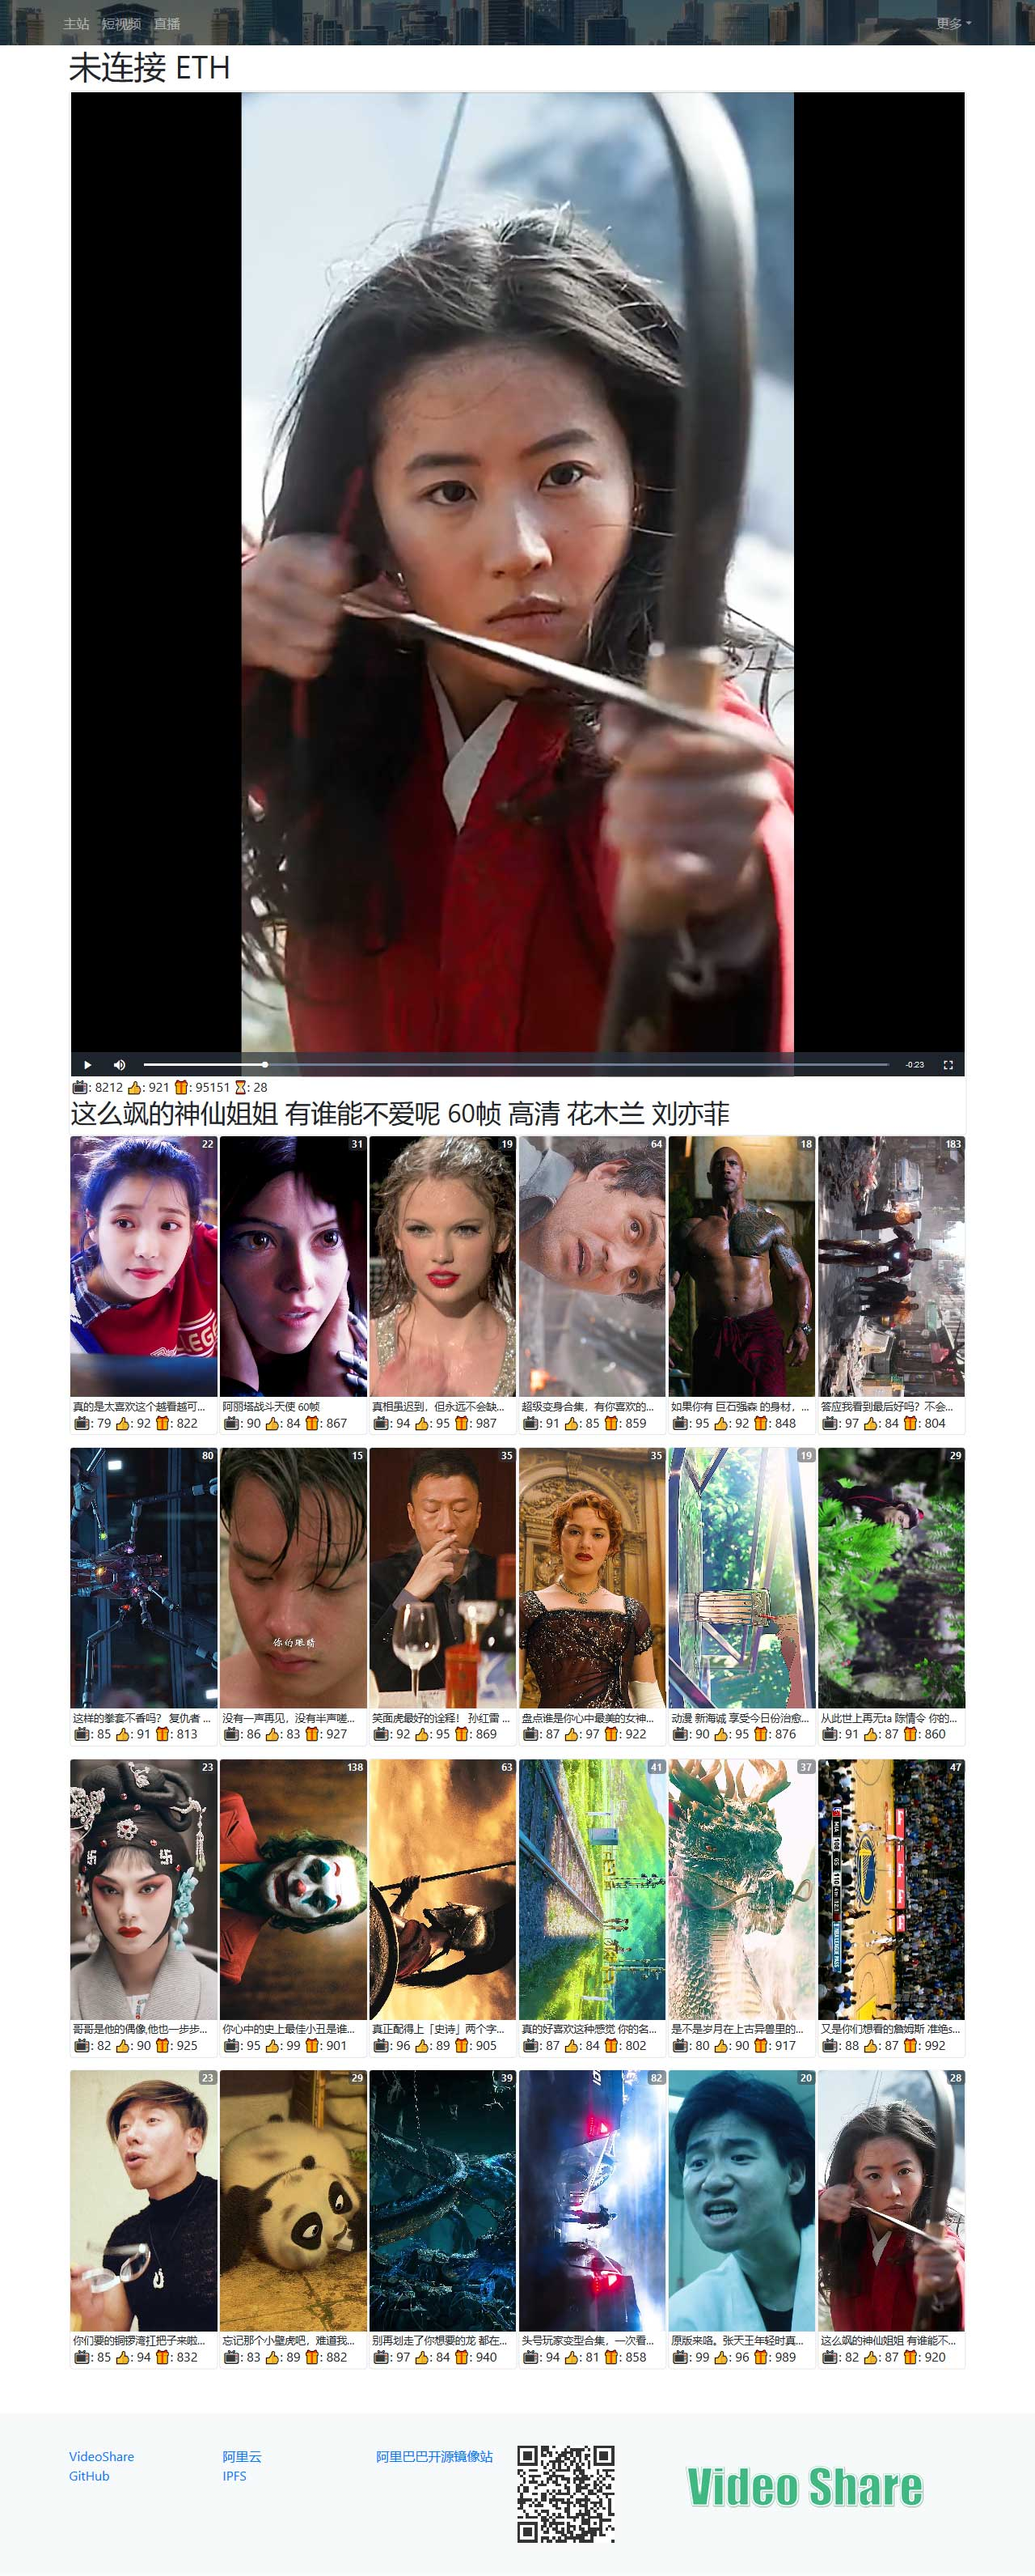
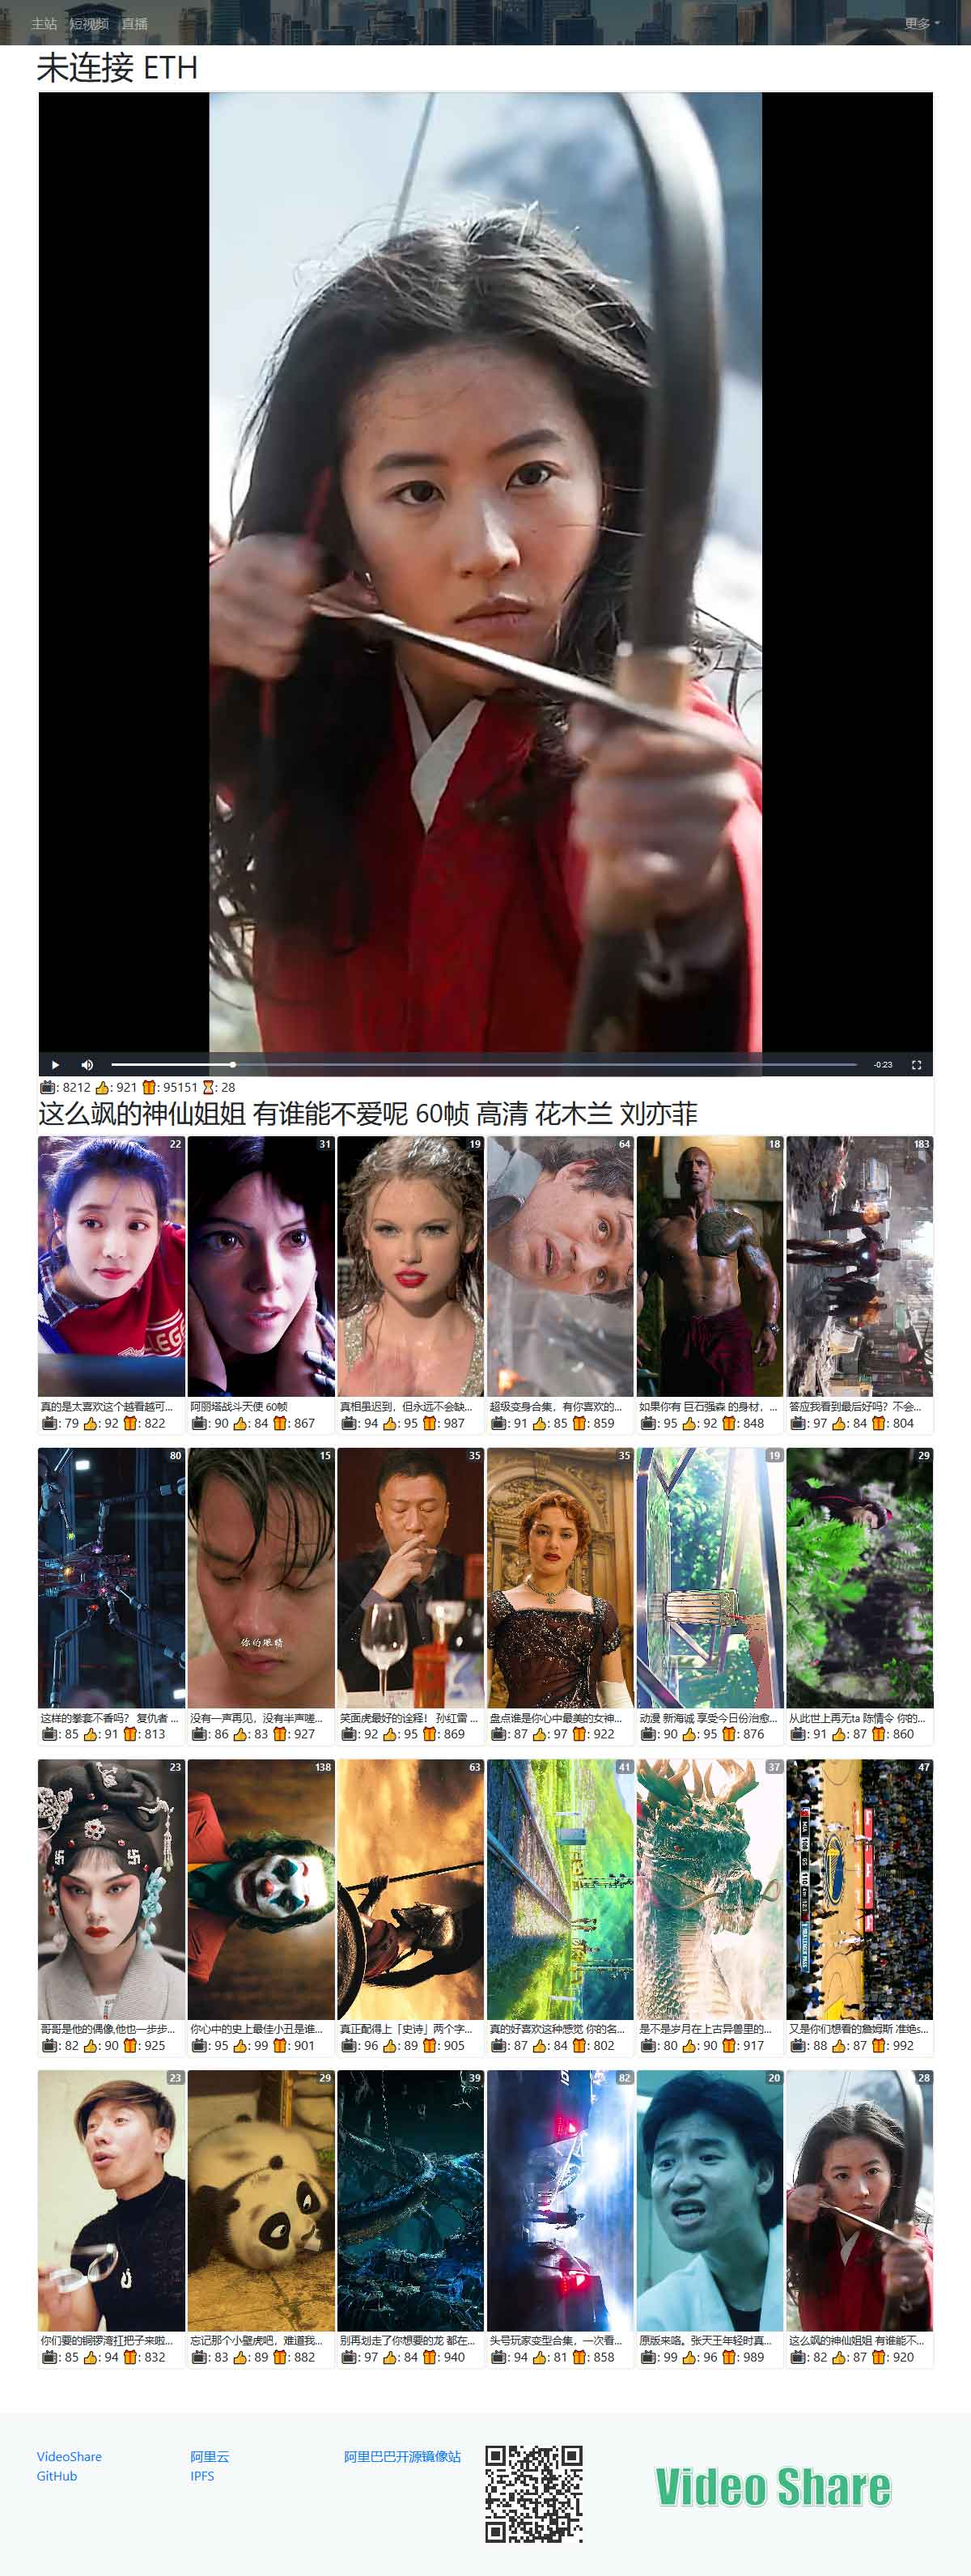
优化

diff --git a/src/App.vue b/src/App.vue
@@ -12,6 +12,9 @@
           <b-navbar-nav class="ml-auto">
             <b-nav-item-dropdown right>
               <template slot="button-content">更多</template>
+              <b-dropdown-item v-if="loginEth" to="/userinfo">个人信息</b-dropdown-item>
+              <b-dropdown-item v-if="loginEth" :to="'/user/'+$store.state.userAccount">我的空间</b-dropdown-item>
+              <b-dropdown-item v-if="loginEth" to="/upload">上传视频</b-dropdown-item>
               <b-dropdown-item :href="global.news">公告</b-dropdown-item>
               <b-dropdown-divider></b-dropdown-divider>
               <b-dropdown-item :href="link.link" v-for="link in global.extend" :key="link.link">{{ link.title }}</b-dropdown-item>
@@ -22,7 +25,9 @@
       </b-navbar>
     </div>
     <b-container>
-      <h1 v-if="!connectEth">未连接 ETH</h1>
+      <h1 v-if="!connectEth">未连接 ETH, 请下载浏览器插件🦊MetaMask，
+        并切换到<b-badge variant="danger">Ropsten测试网络</b-badge>，
+        访问<b-badge target="_blank" href="https://faucet.metamask.io" variant="light">水龙头</b-badge>以获取测试用的以太币。</h1>
       <router-view></router-view>
     </b-container>
     <div class="footer">
@@ -81,7 +86,6 @@
                 colorLight: "#ffffff",
                 correctLevel: QRCode.CorrectLevel.L
             });
-            console.log(res.data.id)
         }).catch((err)=>{
           console.log(err)
         });
@@ -131,51 +135,51 @@
         }
 
         //先get一下我下载下来的公共网关列表
-        let gateways = await Axios.get('./gateways.json').then((res)=>{
-          return res.data;
-        });
-        let olgateways = await Axios.get('https://ipfs.github.io/public-gateway-checker/gateways.json').then((res)=>{
-          return res.data;
-        });
-        const host1 = window.location.host;
-        const host2 = document.domain;
-        gateways = [
-          "http://127.0.0.1:8080/ipfs/:hash",
-          "http://" + host1 + "/ipfs/:hash",
-          "http://" + host2 + ":8080/ipfs/:hash"
-        ].concat(gateways);
-        gateways = gateways.concat(olgateways);
-        gateways = uniqueArr(gateways);
-
-        //定义用于测试的hash和文本
-        const hashToTest = 'Qmaisz6NMhDB51cCvNWa1GMS7LU1pAxdF4Ld6Ft9kZEP2a';
-        const hashString = 'Hello from IPFS Gateway Checker';
-        let gatewayOnline = [];
-        let num = gateways.length;
-        gateways.forEach((value) => {
-          //拼接hash到网关url里
-          const gatewayAndHash = value.replace(':hash', hashToTest);
-          try {
-            Axios.get(gatewayAndHash, {timeout: 5000}).then((res) => {
-              if (res.data.trim() === hashString.trim()) {
-                gatewayOnline.push(value);
-              }
-              num --;
-              if(num === 0)saveGateway(gatewayOnline);
-            }).catch((err) => {
-              num --;
-              if(num === 0)saveGateway(gatewayOnline);
-            });
-          }catch (e) {
-            num --;
-            if(num === 0)saveGateway(gatewayOnline);
-          }
-        });
-        const saveGateway = (gateways)=>{
-            if(gateways.length < 1)return;
-            this.$store.commit('setGateWay', gateways[0]);
-            localStorage.setItem('GateWays', JSON.stringify(gateways));
-        };
+        // let gateways = await Axios.get('./gateways.json').then((res)=>{
+        //   return res.data;
+        // });
+        // let olgateways = await Axios.get('https://ipfs.github.io/public-gateway-checker/gateways.json').then((res)=>{
+        //   return res.data;
+        // });
+        // const host1 = window.location.host;
+        // const host2 = document.domain;
+        // gateways = [
+        //   "http://127.0.0.1:8080/ipfs/:hash",
+        //   "http://" + host1 + "/ipfs/:hash",
+        //   "http://" + host2 + ":8080/ipfs/:hash"
+        // ].concat(gateways);
+        // gateways = gateways.concat(olgateways);
+        // gateways = uniqueArr(gateways);
+        //
+        // // 定义用于测试的hash和文本
+        // const hashToTest = 'Qmaisz6NMhDB51cCvNWa1GMS7LU1pAxdF4Ld6Ft9kZEP2a';
+        // const hashString = 'Hello from IPFS Gateway Checker';
+        // let gatewayOnline = [];
+        // let num = gateways.length;
+        // gateways.forEach((value) => {
+        //   //拼接hash到网关url里
+        //   const gatewayAndHash = value.replace(':hash', hashToTest);
+        //   try {
+        //     Axios.get(gatewayAndHash, {timeout: 5000}).then((res) => {
+        //       if (res.data.trim() === hashString.trim()) {
+        //         gatewayOnline.push(value);
+        //       }
+        //       num --;
+        //       if(num === 0)saveGateway(gatewayOnline);
+        //     }).catch((err) => {
+        //       num --;
+        //       if(num === 0)saveGateway(gatewayOnline);
+        //     });
+        //   }catch (e) {
+        //     num --;
+        //     if(num === 0)saveGateway(gatewayOnline);
+        //   }
+        // });
+        // const saveGateway = (gateways)=>{
+        //     if(gateways.length < 1)return;
+        //     this.$store.commit('setGateWay', gateways[0]);
+        //     localStorage.setItem('GateWays', JSON.stringify(gateways));
+        // };
         console.log('login:'+this.loginEth);
         if(this.loginEth){
           const ipfs = await this.$ipfs;

diff --git a/src/components/VideoCard.vue b/src/components/VideoCard.vue
@@ -8,9 +8,10 @@
 <!--    <b-badge variant="primary" class="hd">{{ hd }}</b-badge>-->
     <a :href="'#/video/'+video.videoId">
       <b-card-body>
-        <b-card-title>{{ title }}</b-card-title>
+        <b-card-title><h4>{{ title }}</h4></b-card-title>
         <b-card-text>
-          {{ timestamp }} 👍: {{ gratuityNum }} 🎁: {{ gratuitySum }}
+          {{ timestamp }} <br>
+          👍: {{ gratuityNum }} 🎁: {{ gratuitySum }}
         </b-card-text>
       </b-card-body>
     </a>
@@ -36,13 +37,16 @@
     props:['video'],
     methods:{
       async init(){
+        if(this.video.videoHash.substr(0,6)==='/ipfs/'){
+          this.video.videoHash = this.video.videoHash.substr(6);
+        }
         let videoinfo = await Axios.get('/ipfs/'+this.video.videoHash).then((res)=>{
           return res.data
         });
         this.cover = videoinfo.cover;
         this.title = videoinfo.title;
         this.duration = formatdurationtime(this.video.duration);
-        this.timestamp = formatDate(this.video.timestamp,'short');
+        this.timestamp = formatDate(this.video.timestamp);
         this.gratuityNum = this.video.gratuityNum;
         this.gratuitySum = formatETH(this.video.gratuitySum);
       }
@@ -55,7 +59,7 @@
 
 <style scoped>
   .card-body{
-    padding: 0.2rem;
+    padding: 0.1rem;
   }
   .duration{
     position: absolute;
@@ -70,8 +74,15 @@
     text-decoration: none;
   }
   .video-card{
-    margin-left: -10px;
-    margin-right: -10px;
+    margin-left: -13px;
+    margin-right: -13px;
     margin-bottom: 10px;
+  }
+  h4{
+    font-size: 0.8rem;
+    overflow: hidden;
+    text-overflow:ellipsis;
+    white-space: nowrap;
+    margin-bottom: 0;
   }
 </style>

diff --git a/src/views/Demo.vue b/src/views/Demo.vue
@@ -60,8 +60,14 @@
         methods: {
             async init() {
                 let video = await Axios.get('./demo.json');
-                console.log(video);
-                this.demoVideos = video.data.demoVideos;
+                let demoVideos = video.data.demoVideos;
+                for(let i=0;i<12;i++){
+                    let len = demoVideos.length-1;
+                    let number = Math.floor(Math.random()*len);
+                    this.demoVideos.push(demoVideos[number]);
+                    demoVideos.splice(number,1);
+                }
+                this.playvideo(this.demoVideos[0]);
             },
             playvideo(v){
                 this.video = v;
@@ -69,13 +75,18 @@
                     type:"video/mp4",
                     src:v.url
                 }];
+                const playvideo = this.playvideo;
+                const demoVideos = this.demoVideos;
                 const player = videojs('demoplayer');
                 player.ready(function(){
                     const obj  = this;
                     obj.src(sources);
                     obj.load();
+                    obj.on('ended', ()=>{
+                        let number = Math.floor(Math.random()*12);
+                        playvideo(demoVideos[number]);
+                    });
                 });
-                console.log(v);
             }
         },
         filters: {
@@ -112,7 +123,6 @@
     text-overflow:ellipsis;
     white-space: nowrap;
     margin-bottom: 0;
-
   }
   .duration{
     position: absolute;

diff --git a/src/views/Video.vue b/src/views/Video.vue
@@ -14,7 +14,7 @@
       <b-pagination-nav :link-gen="getNum" @change="gotoplayer" :number-of-pages="MaxPage" use-router></b-pagination-nav>
     </b-row>
     <b-row>
-      <b-col cols="3" v-for="v in videolist" :key="v.videoHash">
+      <b-col sm="6" md="4" lg="3" xl="2" v-for="v in videolist" :key="v.videoHash">
         <VideoCard :video="v"></VideoCard>
       </b-col>
     </b-row>
@@ -76,6 +76,7 @@
           this.userData = await dikTok.methods.getUserInfo(this.videoData.author).call().then((res)=>{return res});
           this.userData['userAddress'] = this.videoData.author;
 
+          this.CommentData = [];
           for (let i = 0; i < this.videoData.commentsNum && i < 6; i++) {
               const comment = await dikTok.methods.getVideoComment(this.videoId, i).call().then((res)=>{return res});
               this.CommentData.push(comment);

diff --git a/src/components/VideoPlayer.vue b/src/components/VideoPlayer.vue
@@ -59,6 +59,9 @@
     props:['video'],
     methods:{
       async init(){
+        if(this.video.videoHash.substr(0,6)==='/ipfs/'){
+            this.video.videoHash = this.video.videoHash.substr(6);
+        }
         let videoinfo = await Axios.get('/ipfs/'+this.video.videoHash).then((res)=>{
           return res.data
         });

diff --git a/src/components/UserCard.vue b/src/components/UserCard.vue
@@ -37,6 +37,9 @@
     props:['user'],
     methods:{
       async init(){
+        if(this.user.userHash.length<1){
+            return ;
+        }
         let userinfo = await Axios.get('/ipfs/'+this.user.userHash).then((res)=>{
           return res.data
         });

diff --git a/src/utils/assist.js b/src/utils/assist.js
@@ -51,7 +51,7 @@ export function formatdurationtime(inputTime, format = 'standard') {
 }
 
 export function formatETH(eth) {
-  return Math.floor(eth / 1e+8).toFixed(2);
+  return (eth / 1e+18).toFixed(2);
 }
 export function uniqueArr(array) {
   let n = [];

diff --git a/src/views/User.vue b/src/views/User.vue
@@ -6,7 +6,7 @@
       </b-col>
     </b-row>
     <b-row>
-      <b-col cols="3" v-for="video in videoData">
+      <b-col cols="3" v-for="video in videoData" :key="video.url">
         <VideoCard :video="video"></VideoCard>
       </b-col>
     </b-row>

diff --git a/README.md b/README.md
@@ -8,7 +8,7 @@ DikTok is a Dapp (Ethereum & IPFS).
 
 以吸引用户、引导用户登录ETH网络
 
-体验hash： [/ipfs/QmPAJis8U7Da2f15cUypJm4DQsqvvNKRgFuoEzqF49kMY4/](http://ipfs-gateway.dlimba.top:8082/ipfs/QmPAJis8U7Da2f15cUypJm4DQsqvvNKRgFuoEzqF49kMY4/)
+体验hash： [/ipns/QmeHccaAitY3h6QUyf4VrgKziAdSpwrDuu7ETyxrpax1oZ/](http://ipfs-gateway.dlimba.top:8082/ipns/QmeHccaAitY3h6QUyf4VrgKziAdSpwrDuu7ETyxrpax1oZ/)
 
 ![未登录时的演示](demo-file/demo1.jpg)
 
